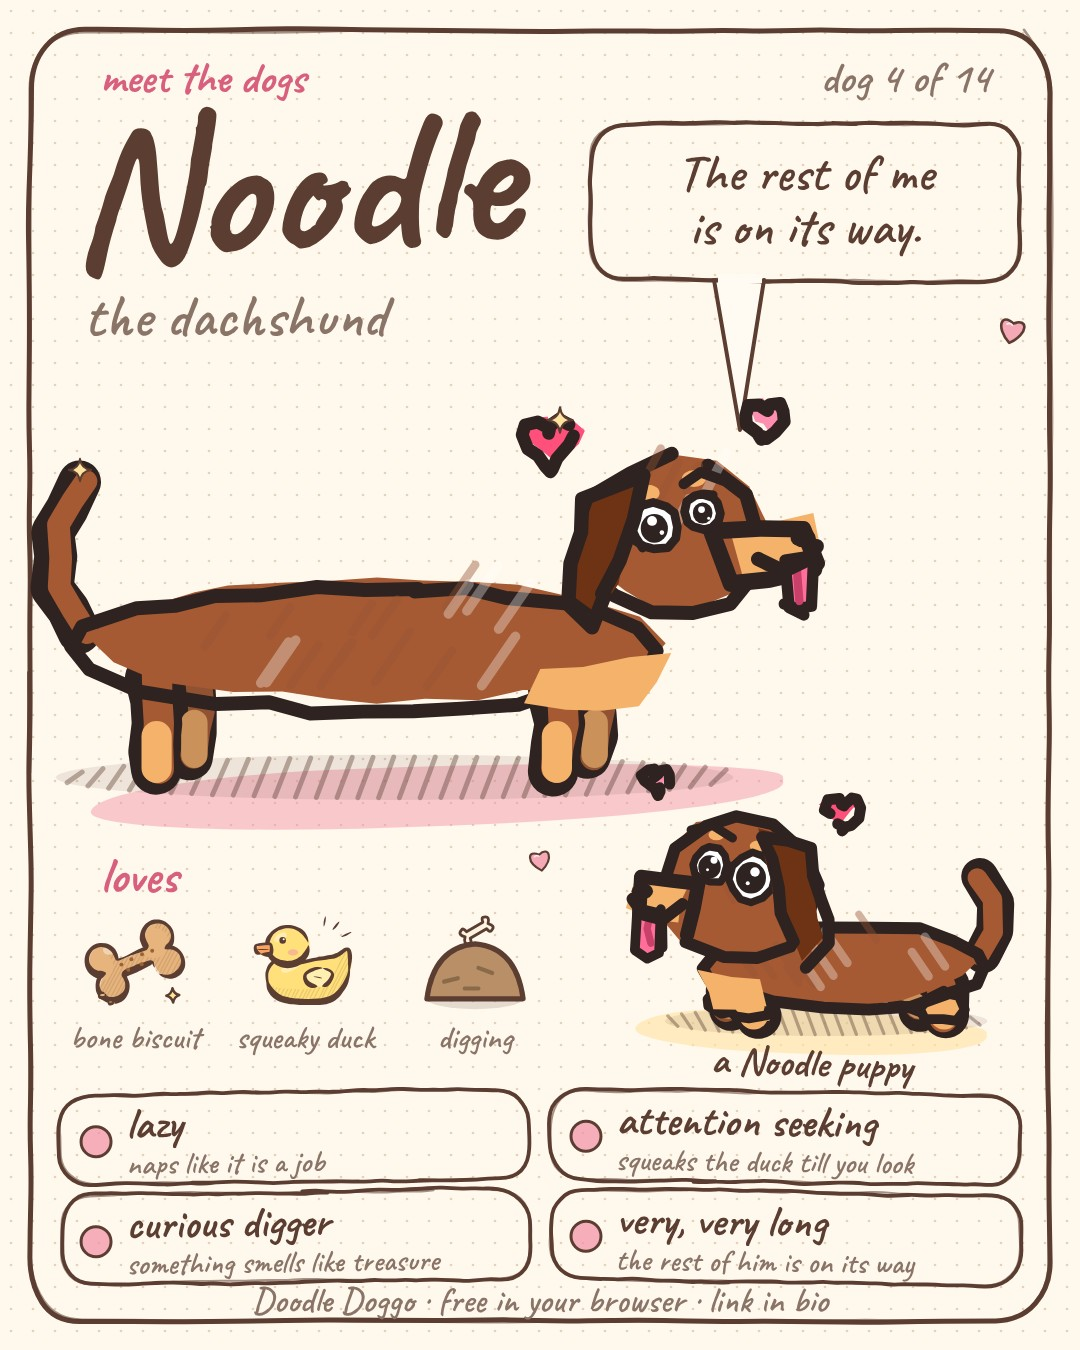
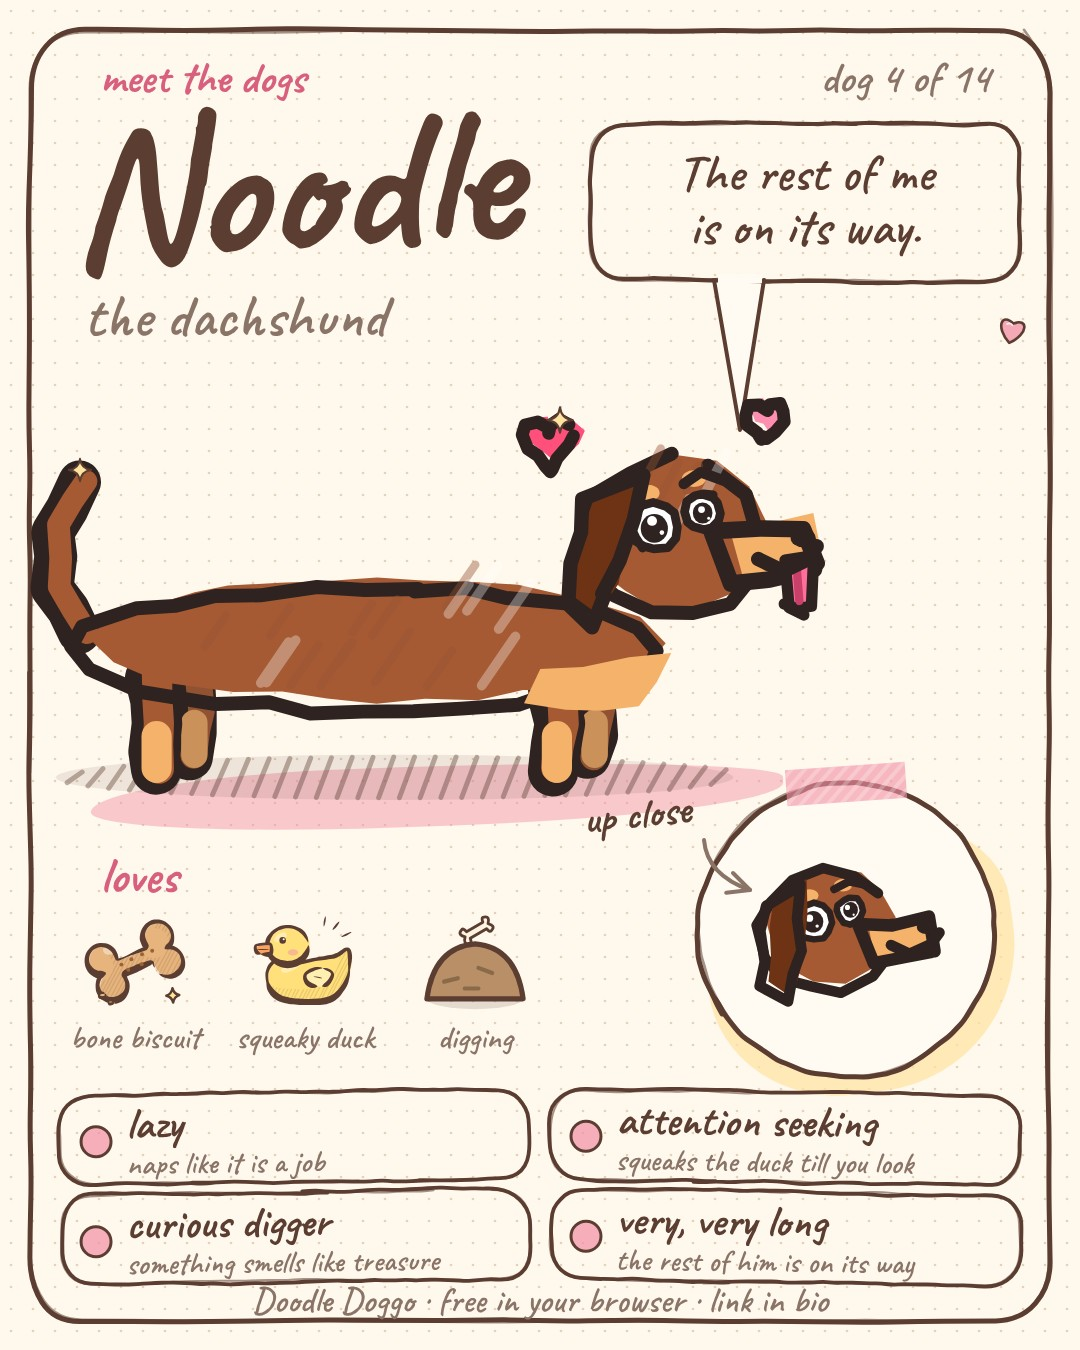
Marketing: dog intro sample uses a big head close-up instead of a puppy
Claude-Session: https://claude.ai/code/session_0173H2sTBWGuoegERTZ44QG1

Changed region(s): [[0.55, 0.56, 0.9472, 0.8089], [0.8556, 0.5911, 0.8861, 0.6222], [0.4889, 0.6222, 0.5194, 0.6533]]

diff --git a/brand/instagram/launch/make_dogs.js b/brand/instagram/launch/make_dogs.js
@@ -19,18 +19,19 @@ module.exports = async function ({ render, browser, helpers: h, only }) {
   const fit = async (key, o, x, bottom, w) => { const b = await bbox(PA.dog(key, Object.assign({ anim: false }, o))), k = w / b[2], hh = b[3] * k; return { x, y: bottom - hh, w, h: hh, svg: `<svg x="${f1(x)}" y="${f1(bottom - hh)}" width="${f1(w)}" height="${f1(hh)}" viewBox="${b.map(f1).join(' ')}" overflow="visible">${inner(PA.dog(key, Object.assign({ anim: false }, o)))}</svg>` }; };
   const post = async (d) => {
     const A = await fit(d.key, { pose: d.pose || 'happy' }, 52, 800, d.dw || 770);
-    const P = await fit(d.key, { pose: d.puppyPose || 'happy', age: 'puppy', facing: 'left' }, 626, 1036, d.pw || 370);
+    const HC = [846, 930, 148]; // the close-up: centre x, centre y, radius
     let g = paper(W, H) + frame(W, H, 40 + d.num)
       + txt('meet the dogs', 100, 92, 44, { fill: '#D8607E', anchor: 'start' }) + txt(`dog ${d.num} of 14`, 990, 92, 44, { fill: MUTED, w: 600, anchor: 'end' })
       + txt(d.name, 70, 262, d.nameSize || 200, { rot: -3, anchor: 'start' }) + txt(d.title, 84, 336, 60, { fill: MUTED, w: 600, anchor: 'start' })
       + bubble(590, 124, 430, 156, 740, A.y + A.h * 0.08, d.quote, 9)
-      + swash(A.x + A.w / 2, 796, A.w * 0.9, 60, -2, PINK, 0.45) + swash(P.x + P.w / 2, 1032, P.w * 0.95, 44, 2, '#FFE3A1', 0.6)
-      + A.svg + P.svg
-      + txt(`a ${d.name} puppy`, P.x + P.w / 2, 1076, 40, { w: 700, rot: 2 })
+      + swash(A.x + A.w / 2, 796, A.w * 0.9, 60, -2, PINK, 0.45) + swash(HC[0] + 14, HC[1] + 22, HC[2] * 2.1, HC[2] * 1.9, -8, '#FFE3A1', 0.7)
+      + A.svg
+      + `<g><circle cx="${HC[0]}" cy="${HC[1]}" r="${HC[2]}" fill="#FFFBF2"/>${box(HC[0] - HC[2], HC[1] - HC[2], HC[2] * 2, HC[2] * 2, HC[2], 91, 2.6, 5)}<svg x="${HC[0] - 100}" y="${HC[1] - 98}" width="204" height="204" viewBox="2 6 96 96" overflow="visible">${inner(PA.dogHead(d.key))}</svg>${tape(HC[0] - 60, HC[1] - HC[2] - 16, 120, 36, -4)}</g>`
+      + txt('up close', HC[0] - HC[2] - 6, HC[1] - HC[2] + 40, 42, { w: 700, rot: -6, anchor: 'end' }) + arrow(HC[0] - HC[2] + 6, HC[1] - HC[2] + 58, HC[0] - HC[2] + 52, HC[1] - 40, [-20, 10], 3)
       // what it loves: the game's own item icons
       + txt('loves', 100, 892, 50, { fill: '#D8607E', anchor: 'start' })
       + d.loves.map(([name, label], i) => (name ? item(name, 80 + i * 170, 906, 110) : digIcon(80 + i * 170, 906, 110)) + txt(label, 135 + i * 170, 1048, 32, { w: 600, fill: MUTED })).join('')
-      + doodle('heart', 1012, 330, 1.1, 12) + doodle('spark', 560, 420, 0.9) + doodle('spark', 80, 470, 0.8) + doodle('heart', 540, 860, 0.9, -10);
+      + doodle('heart', 1012, 330, 1.1, 12) + doodle('spark', 560, 420, 0.9) + doodle('spark', 80, 470, 0.8);
     // the four traits
     d.traits.forEach(([t, sub], i) => {
       const x = 60 + (i % 2) * 490, y = 1092 + Math.floor(i / 2) * 100;
